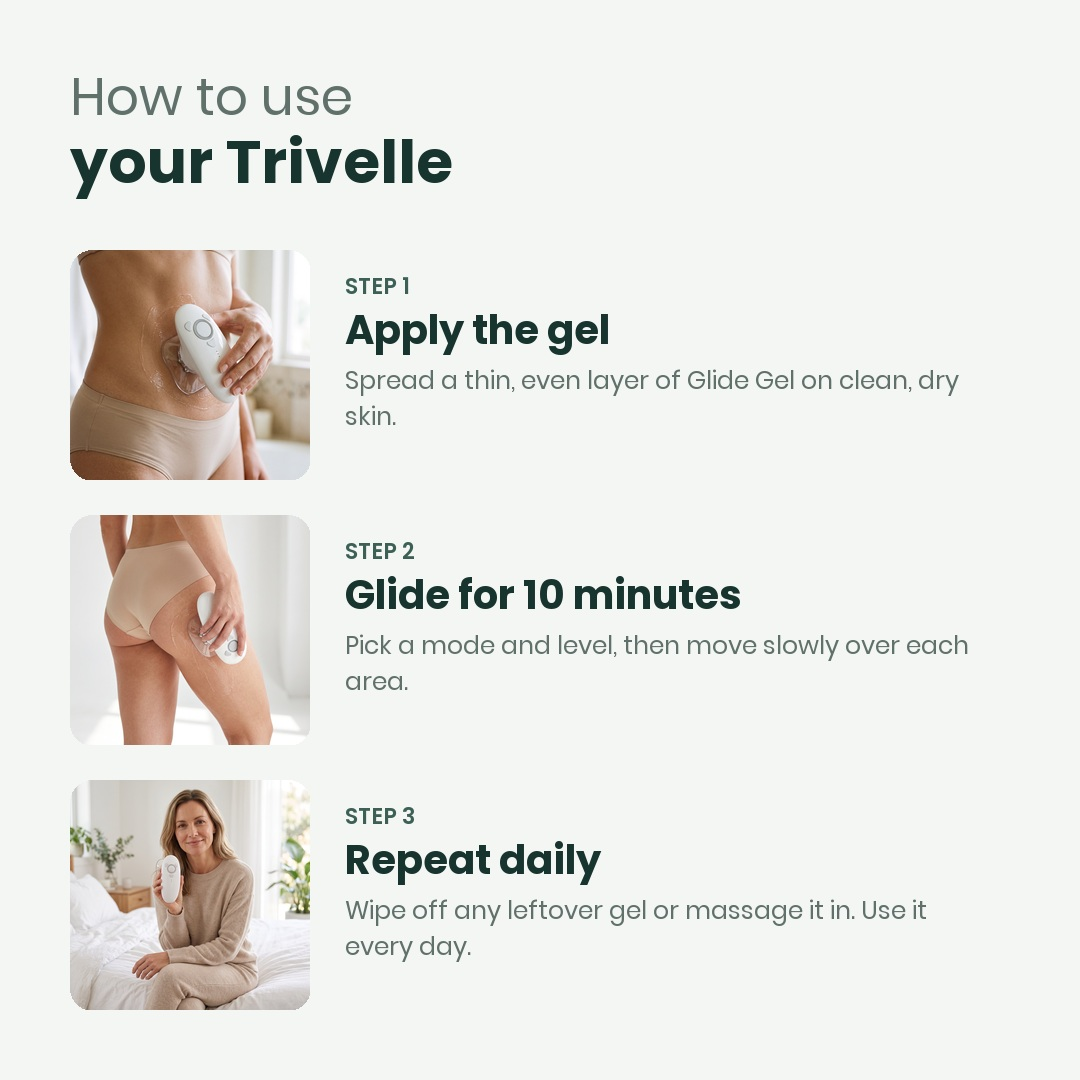
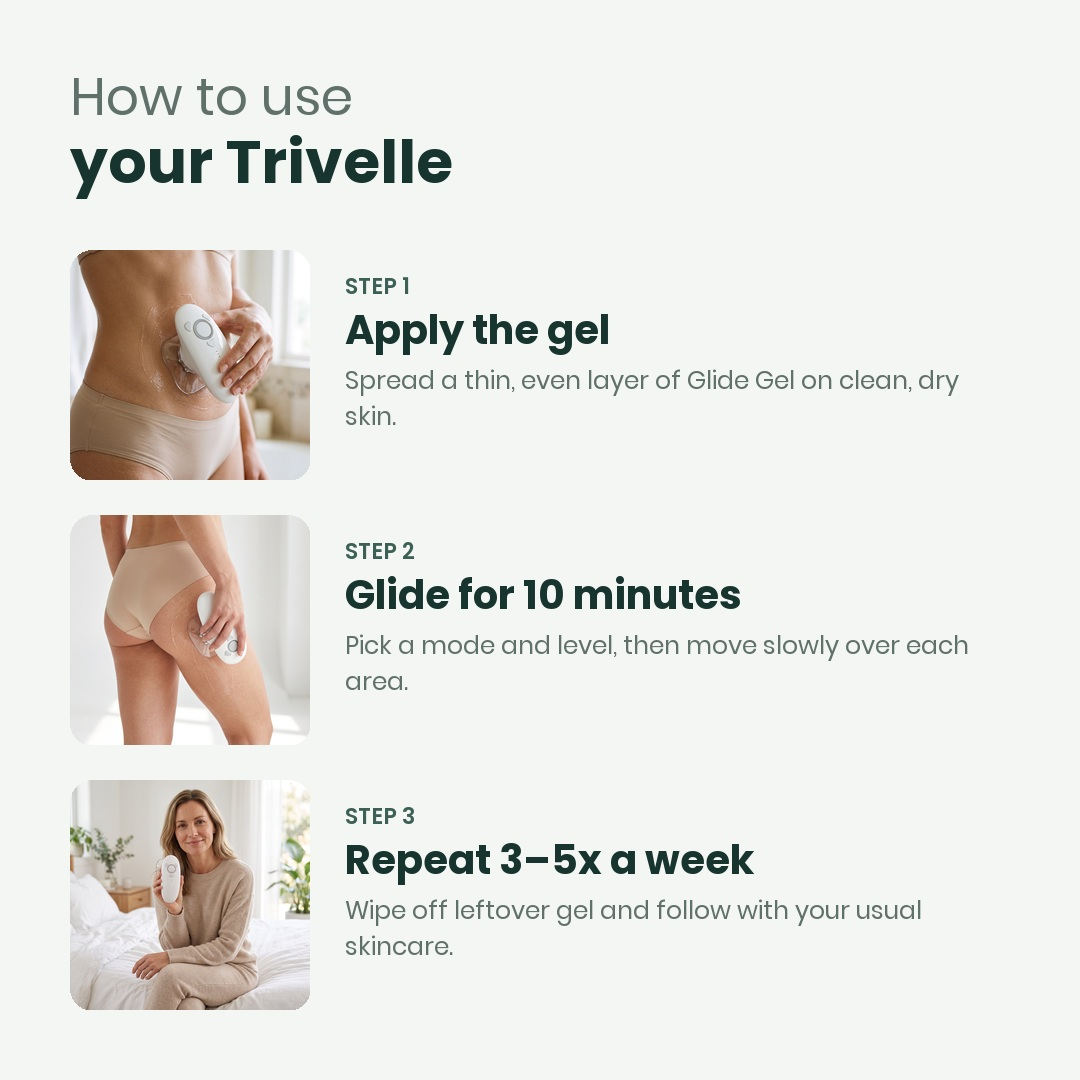
Trivelle: full-site check, pricing options, how-to graphic frequency fix

Changed region(s): [[0.4278, 0.7639, 0.8556, 0.8556], [0.3056, 0.8556, 0.4278, 0.8861]]

diff --git a/projects/trivelle-beauty/scripts/graphics.py b/projects/trivelle-beauty/scripts/graphics.py
@@ -53,7 +53,7 @@ d.text((70, 60), "How to use", font=f("Regular", 52), fill=MUTE)
 d.text((70, 120), "your Trivelle", font=f("Bold", 60), fill=INK)
 steps = [("02-stomach.png", "Apply the gel", "Spread a thin, even layer of Glide Gel on clean, dry skin."),
          ("04-thigh.png", "Glide for 10 minutes", "Pick a mode and level, then move slowly over each area."),
-         ("07-lifestyle-older.png", "Repeat daily", "Wipe off any leftover gel or massage it in. Use it every day.")]
+         ("07-lifestyle-older.png", "Repeat 3–5x a week", "Wipe off leftover gel and follow with your usual skincare.")]
 y = 250
 for k, (img, h, b) in enumerate(steps):
     ph = rounded(fit(f"{S}/{img}", 240, 230), 22); im.paste(ph, (70, y), ph)

diff --git a/projects/trivelle-beauty/WEBSITE-BREAKDOWN.md b/projects/trivelle-beauty/WEBSITE-BREAKDOWN.md
@@ -23,8 +23,8 @@ The store runs on **Shopify's servers**, not your laptop. Turning the home lapto
 | 2 | **No tracking pixels detected** (no Meta, TikTok or Google tags in the page) | You can't run or optimise ads without a pixel. Note: Shopify can load pixels through *Customer events* in a way this check can't see — verify in admin. | Settings → Customer events: connect Meta (Facebook & Instagram app) and TikTok. |
 | 3 | **Shipping mismatch**: banner and policy say "Free worldwide shipping", but the store is set to ship to **Australia only**, while the currency selector lists ~45 countries | Overseas customers can browse, add to cart, then fail at checkout. | Either add shipping zones for the countries you'll serve, or change the banner to "Free shipping Australia-wide" and turn off the extra markets. |
 | 4 | **Policies say "My Store"** (Privacy + Terms are unedited Shopify templates) | Looks like a scam store, and the legal entity on your terms is undefined. | Replace "My Store" with your business name; add ABN, business address and contact email to Terms and the footer. |
-| 5 | **"Was" prices ($279 / $249 / $558, "Save 39%")** and "Launch price ends… Regular price from 1 December" | ACCC treats a was-price you never actually charged as misleading. A countdown that resets is the same problem. | Only keep the strikethrough if you will genuinely charge $279 from 1 December and keep it there. Otherwise remove the compare-at prices and timer. |
-| 6 | **No safety / contraindication info** | EMS and suction devices must warn off pregnancy, pacemakers or implanted electronics, epilepsy, broken skin, recent surgery, etc. Missing warnings = liability and chargebacks. | Add a "Who shouldn't use Trivelle" FAQ + a line in the description. Get the list from the supplier's manual. |
+| 5 | **"Was" prices ($279 / $249 / $558, "Save 39%")** with a launch countdown to a fixed date (1 Dec 2026, it does not reset) | The timer itself is honest. The risk is the strikethrough: under the ACCC's reference-pricing rules a "was" price must be one you genuinely charged (or will charge) for a reasonable period. **Do not raise it to $550 to match Sculpiflex** — that number would be invented, and it's the most common way small stores get ACCC letters and Meta ad rejections. | Pick one: (a) keep "Launch price — rises to $279 on 1 December" and actually charge $279 from then; (b) drop the strikethrough and sell on value ("$169 — about the cost of one salon session"). See *Pricing options* below. |
+| 6 | **Safety info is only on the FAQ page** (pregnancy, pacemaker, epilepsy, broken skin are covered there — good) | Buyers read the product page, not the FAQ. | Add the same "Who shouldn't use Trivelle" answer to the product page FAQ. |
 
 ## Fix next (conversion)
 
@@ -37,6 +37,20 @@ The store runs on **Shopify's servers**, not your laptop. Turning the home lapto
 | 11 | "Face head and body head" in the box | The supplier photos show one cup. Confirm with the supplier before promising two heads. |
 | 12 | Collection page shows a raw `${{amount}}` in the price filter | Theme bug: turn off the price filter on the collection (only 1 product anyway). |
 | 13 | "Real support, Australian-owned" + a store that looks overseas-shipped | Fine if true. Keep it, but make the contact email a real domain address (hello@trivellebeauty.com). |
+
+| 14 | FAQ says "We ship worldwide" | Same mismatch as #3 — update with the banner. |
+| 15 | Usage frequency is inconsistent: product page says "10 minutes a day", How to Use + FAQ say "3–5 times a week" | Pick one (the supplier manual decides) and use it everywhere. The how-to graphic now says 3–5x a week. |
+
+## Pages checked
+
+Home, product, collection, About, Contact, FAQ, How to Use, Track order, cart, all four policies, sitemap, robots. All load (200).
+
+## Pricing options (instead of a made-up $550)
+
+1. **Genuine launch price** (current setup, keep it honest): "$169 launch price · $279 from 1 December". Then really move to $279 on 1 Dec, and run sales *down* from that real price later.
+2. **Value anchor, no strikethrough:** "$169 — less than two salon sessions" / "about 50c a day over a year". Legal, and it often converts as well.
+3. **Bundle saving (always true):** "Gift 2-Pack $299 — save $39 vs buying two" (2 × $169 = $338). Real maths, no reference price needed.
+4. **Raise the actual price.** If you want $550 positioning, sell at $550 for a real period first; you can then discount from it legitimately.
 
 ## Product page image order (from what's been made)
 
